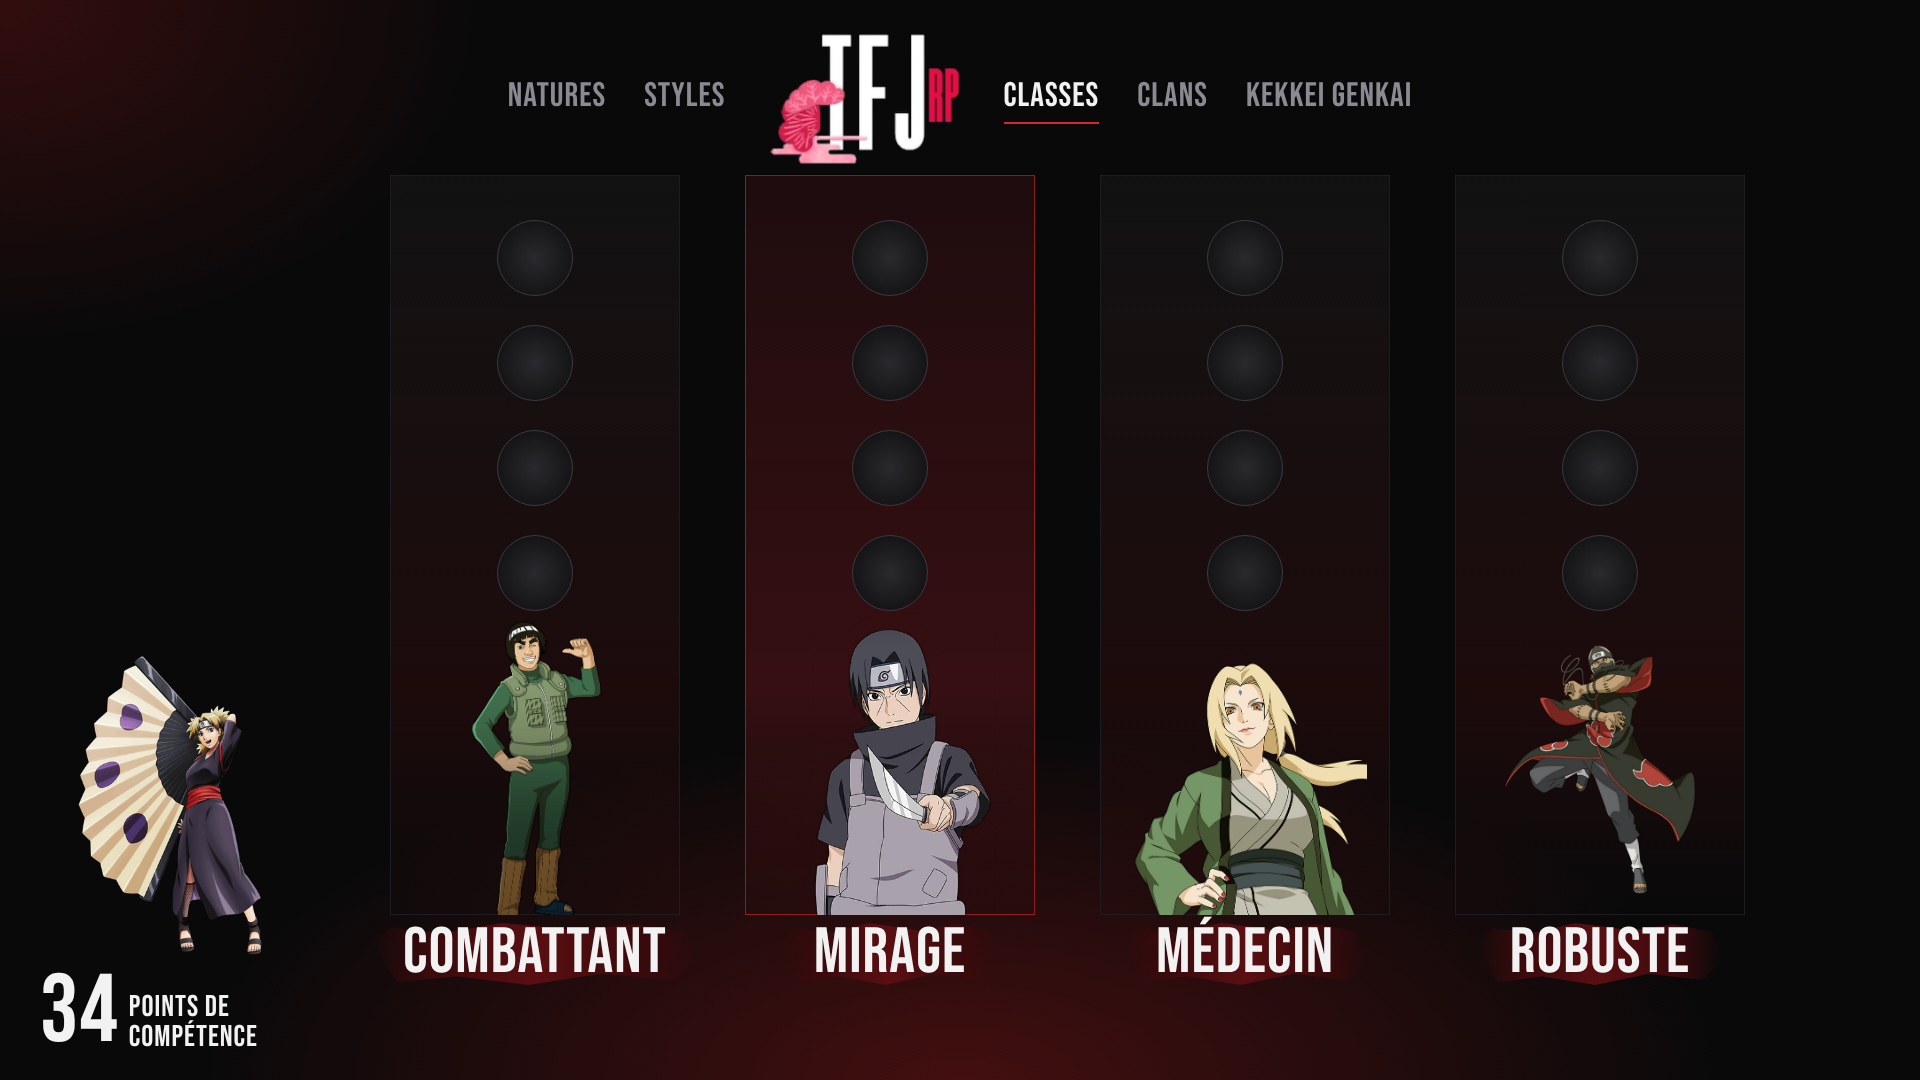
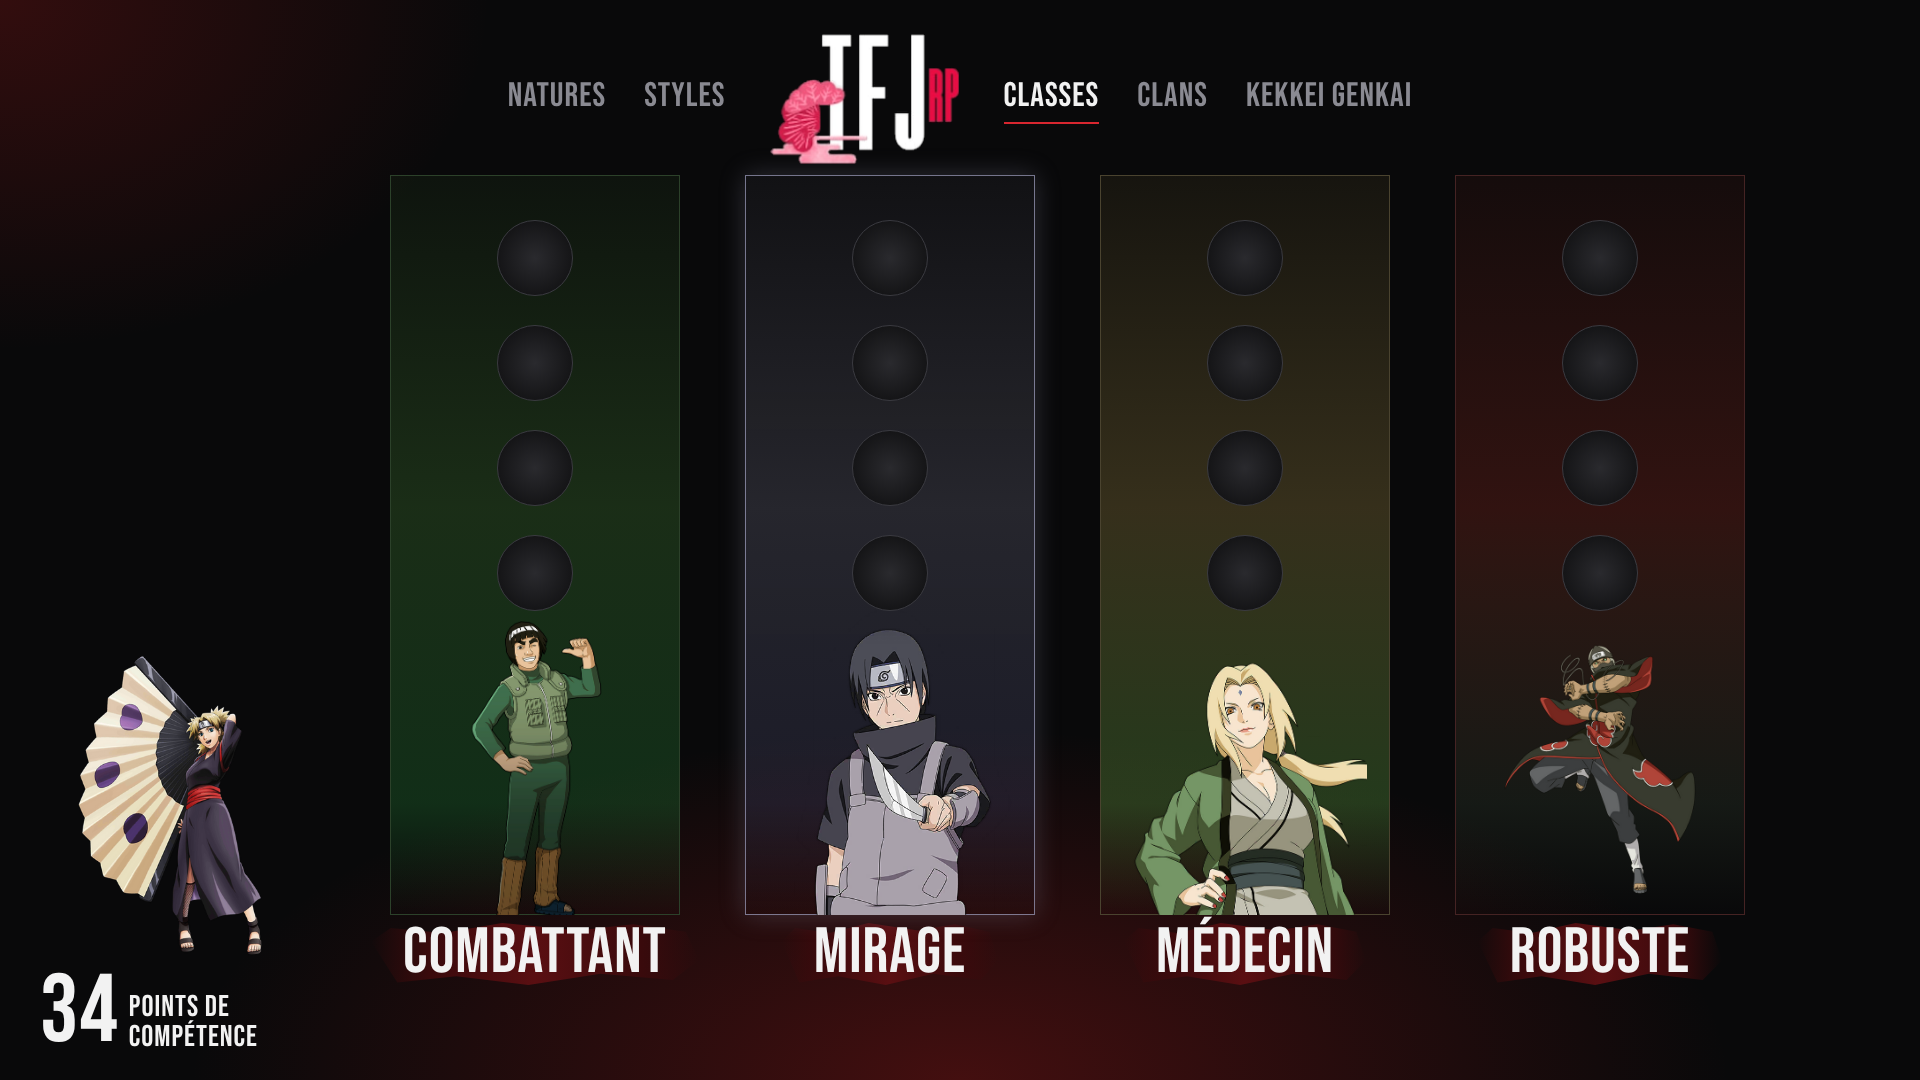
F4 : degrade de couleur par colonne d'apres l'illustration, quota de 4 techniques
Claude-Session: https://claude.ai/code/session_01WNq6bnfK84GAyjbejrSsQj

Changed region(s): [[0.1875, 0.3667, 0.75, 0.7944]]

diff --git a/maquettes/classe/maquette_f4_natures.html b/maquettes/classe/maquette_f4_natures.html
@@ -25,8 +25,9 @@ body{width:1920px;height:1080px;overflow:hidden;position:relative;font-family:Po
 .nav .logo{position:relative;width:190px;height:130px;margin:0 6px}
 /* colonnes */
 .col{position:absolute;top:175px;width:290px;height:820px}
-.col:before{content:"";position:absolute;inset:0 10px 80px;background:linear-gradient(180deg,rgba(255,255,255,.035),rgba(176,26,26,.12) 70%,transparent);border:1px solid #1d1d21}
-.col.on:before{border-color:rgba(216,38,47,.6);background:linear-gradient(180deg,rgba(216,38,47,.10),rgba(216,38,47,.22) 70%,transparent)}
+.col:before{content:"";position:absolute;inset:0 10px 80px;border:1px solid color-mix(in srgb,var(--c1) 22%,#1d1d21);
+ background:linear-gradient(180deg,color-mix(in srgb,var(--c1) 6%,transparent),color-mix(in srgb,var(--c1) 20%,transparent) 45%,color-mix(in srgb,var(--c2) 38%,transparent) 85%,transparent)}
+.col.on:before{border-color:color-mix(in srgb,var(--c1) 75%,transparent);box-shadow:0 0 24px color-mix(in srgb,var(--c1) 25%,transparent)}
 .palier{position:absolute;left:0;right:0;display:flex;justify-content:center}
 /* icone de la technique : reprise telle quelle du skill tree existant */
 .palier .gem{width:76px;height:76px;border-radius:50%;background:radial-gradient(circle,#2a2a2e,#151517 70%);border:1px solid #3a3a40}
@@ -55,7 +56,7 @@ body{width:1920px;height:1080px;overflow:hidden;position:relative;font-family:Po
 
 
 <!-- 5 colonnes = 5 natures du skill tree (icones de techniques existantes) -->
-<div class="col on" style="left:360px">
+<div class="col on" style="left:360px;--c1:#ff7a1a;--c2:#c4160c">
   <div class="palier" style="top:45px"><span class="gem"></span></div>
   <div class="palier" style="top:150px"><span class="gem"></span></div>
   <div class="palier" style="top:255px"><span class="gem"></span></div>
@@ -64,7 +65,7 @@ body{width:1920px;height:1080px;overflow:hidden;position:relative;font-family:Po
   <div class="nom"><div class="t">KATON</div></div>
 </div>
 
-<div class="col" style="left:665px">
+<div class="col" style="left:665px;--c1:#7be05a;--c2:#1fa89a">
   <div class="palier" style="top:45px"><span class="gem"></span></div>
   <div class="palier" style="top:150px"><span class="gem"></span></div>
   <div class="palier" style="top:255px"><span class="gem"></span></div>
@@ -73,7 +74,7 @@ body{width:1920px;height:1080px;overflow:hidden;position:relative;font-family:Po
   <div class="nom"><div class="t">FÛTON</div></div>
 </div>
 
-<div class="col" style="left:970px">
+<div class="col" style="left:970px;--c1:#f2b02e;--c2:#2f8fe0">
   <div class="palier" style="top:45px"><span class="gem"></span></div>
   <div class="palier" style="top:150px"><span class="gem"></span></div>
   <div class="palier" style="top:255px"><span class="gem"></span></div>
@@ -82,7 +83,7 @@ body{width:1920px;height:1080px;overflow:hidden;position:relative;font-family:Po
   <div class="nom"><div class="t">RAITON</div></div>
 </div>
 
-<div class="col" style="left:1275px">
+<div class="col" style="left:1275px;--c1:#c08a4a;--c2:#1aa0a8">
   <div class="palier" style="top:45px"><span class="gem"></span></div>
   <div class="palier" style="top:150px"><span class="gem"></span></div>
   <div class="palier" style="top:255px"><span class="gem"></span></div>
@@ -91,7 +92,7 @@ body{width:1920px;height:1080px;overflow:hidden;position:relative;font-family:Po
   <div class="nom"><div class="t">DOTON</div></div>
 </div>
 
-<div class="col" style="left:1580px">
+<div class="col" style="left:1580px;--c1:#2f9be8;--c2:#1b3fb5">
   <div class="palier" style="top:45px"><span class="gem"></span></div>
   <div class="palier" style="top:150px"><span class="gem"></span></div>
   <div class="palier" style="top:255px"><span class="gem"></span></div>

diff --git a/maquettes/classe/maquette_f4_classe.html b/maquettes/classe/maquette_f4_classe.html
@@ -25,8 +25,9 @@ body{width:1920px;height:1080px;overflow:hidden;position:relative;font-family:Po
 .nav .logo{position:relative;width:190px;height:130px;margin:0 6px}
 /* colonnes */
 .col{position:absolute;top:175px;width:330px;height:820px}
-.col:before{content:"";position:absolute;inset:0 20px 80px;background:linear-gradient(180deg,rgba(255,255,255,.035),rgba(176,26,26,.12) 70%,transparent);border:1px solid #1d1d21}
-.col.on:before{border-color:rgba(216,38,47,.6);background:linear-gradient(180deg,rgba(216,38,47,.10),rgba(216,38,47,.22) 70%,transparent)}
+.col:before{content:"";position:absolute;inset:0 20px 80px;border:1px solid color-mix(in srgb,var(--c1) 22%,#1d1d21);
+ background:linear-gradient(180deg,color-mix(in srgb,var(--c1) 6%,transparent),color-mix(in srgb,var(--c1) 20%,transparent) 45%,color-mix(in srgb,var(--c2) 38%,transparent) 85%,transparent)}
+.col.on:before{border-color:color-mix(in srgb,var(--c1) 75%,transparent);box-shadow:0 0 24px color-mix(in srgb,var(--c1) 25%,transparent)}
 .palier{position:absolute;left:0;right:0;display:flex;justify-content:center}
 /* icone de la technique : reprise telle quelle du skill tree existant */
 .palier .gem{width:76px;height:76px;border-radius:50%;background:radial-gradient(circle,#2a2a2e,#151517 70%);border:1px solid #3a3a40}
@@ -55,7 +56,7 @@ body{width:1920px;height:1080px;overflow:hidden;position:relative;font-family:Po
 
 
 <!-- 4 colonnes = 4 classes du skill tree, 4 techniques chacune (icones existantes) -->
-<div class="col" style="left:370px">
+<div class="col" style="left:370px;--c1:#5fbf4a;--c2:#1f6b2e">
   <div class="palier" style="top:45px"><span class="gem"></span></div>
   <div class="palier" style="top:150px"><span class="gem"></span></div>
   <div class="palier" style="top:255px"><span class="gem"></span></div>
@@ -64,7 +65,7 @@ body{width:1920px;height:1080px;overflow:hidden;position:relative;font-family:Po
   <div class="nom"><div class="t">COMBATTANT</div></div>
 </div>
 
-<div class="col on" style="left:725px">
+<div class="col on" style="left:725px;--c1:#9a9ab8;--c2:#3a3a58">
   <div class="palier" style="top:45px"><span class="gem"></span></div>
   <div class="palier" style="top:150px"><span class="gem"></span></div>
   <div class="palier" style="top:255px"><span class="gem"></span></div>
@@ -73,7 +74,7 @@ body{width:1920px;height:1080px;overflow:hidden;position:relative;font-family:Po
   <div class="nom"><div class="t">MIRAGE</div></div>
 </div>
 
-<div class="col" style="left:1080px">
+<div class="col" style="left:1080px;--c1:#e8c860;--c2:#4f8a3a">
   <div class="palier" style="top:45px"><span class="gem"></span></div>
   <div class="palier" style="top:150px"><span class="gem"></span></div>
   <div class="palier" style="top:255px"><span class="gem"></span></div>
@@ -82,7 +83,7 @@ body{width:1920px;height:1080px;overflow:hidden;position:relative;font-family:Po
   <div class="nom"><div class="t">MÉDECIN</div></div>
 </div>
 
-<div class="col" style="left:1435px">
+<div class="col" style="left:1435px;--c1:#d23a2a;--c2:#2a3428">
   <div class="palier" style="top:45px"><span class="gem"></span></div>
   <div class="palier" style="top:150px"><span class="gem"></span></div>
   <div class="palier" style="top:255px"><span class="gem"></span></div>

diff --git a/maquettes/STYLE_UI.md b/maquettes/STYLE_UI.md
@@ -1,7 +1,7 @@
 # Styles des menus TFJ
 
 Couleurs communes : noir, rouge (176, 26, 26), blanc.
-Menu F4 (arbre de compétences) : l'onglet Classe est en cours de refonte (maquette `classe/maquette_f4_classe.html`), on modifie le skill tree existant.
+Menu F4 (arbre de compétences) : l'onglet Classe est en cours de refonte (maquette `classe/maquette_f4_classe.html`), on modifie le skill tree existant. Meme quota sur chaque onglet : 4 techniques par colonne. Chaque colonne a un degrade tire des couleurs de son illustration.
 
 ## Style A : « lecteur de musique » (`references/style_A_lecteur_musique.png`)
 Utilisé pour : coffre, registre médical.
